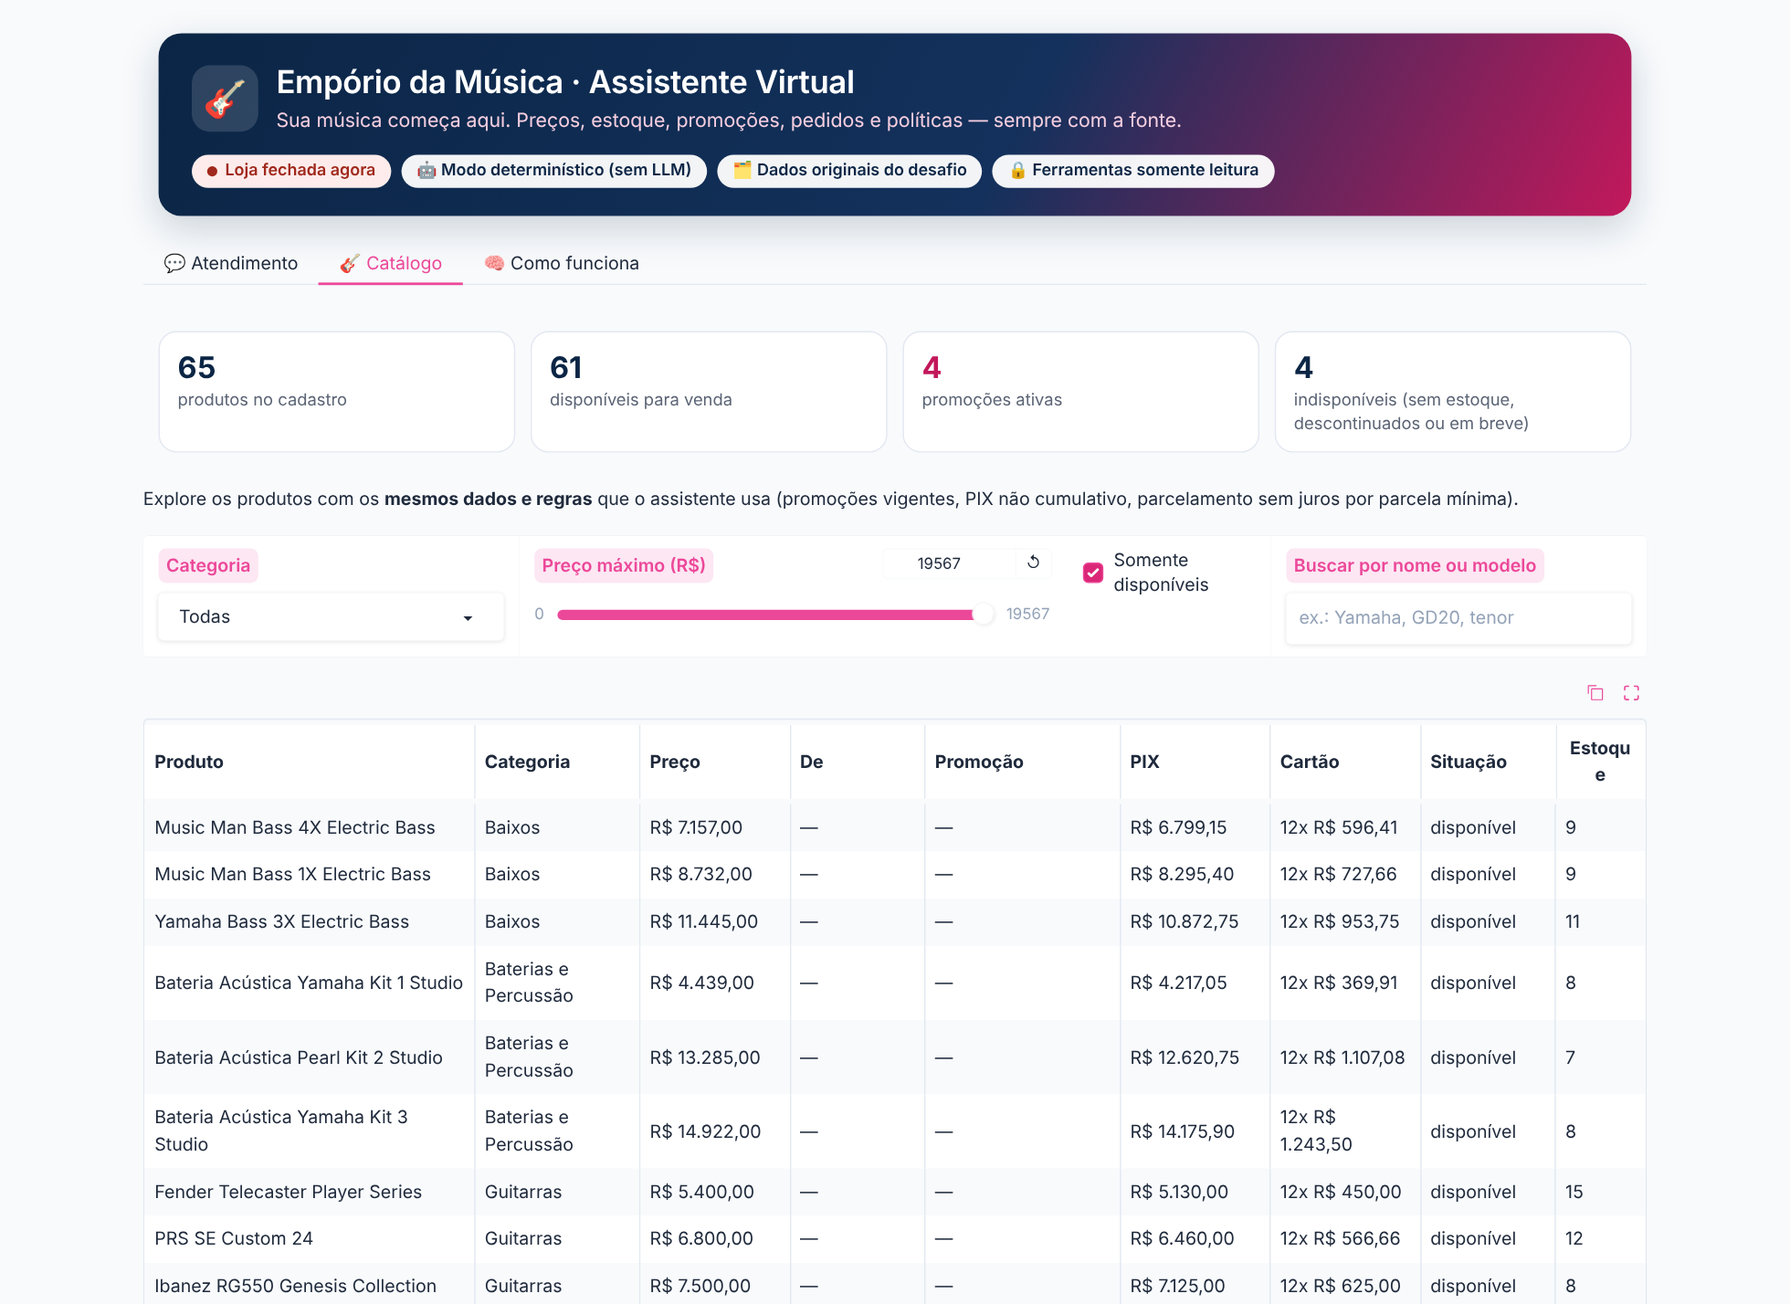
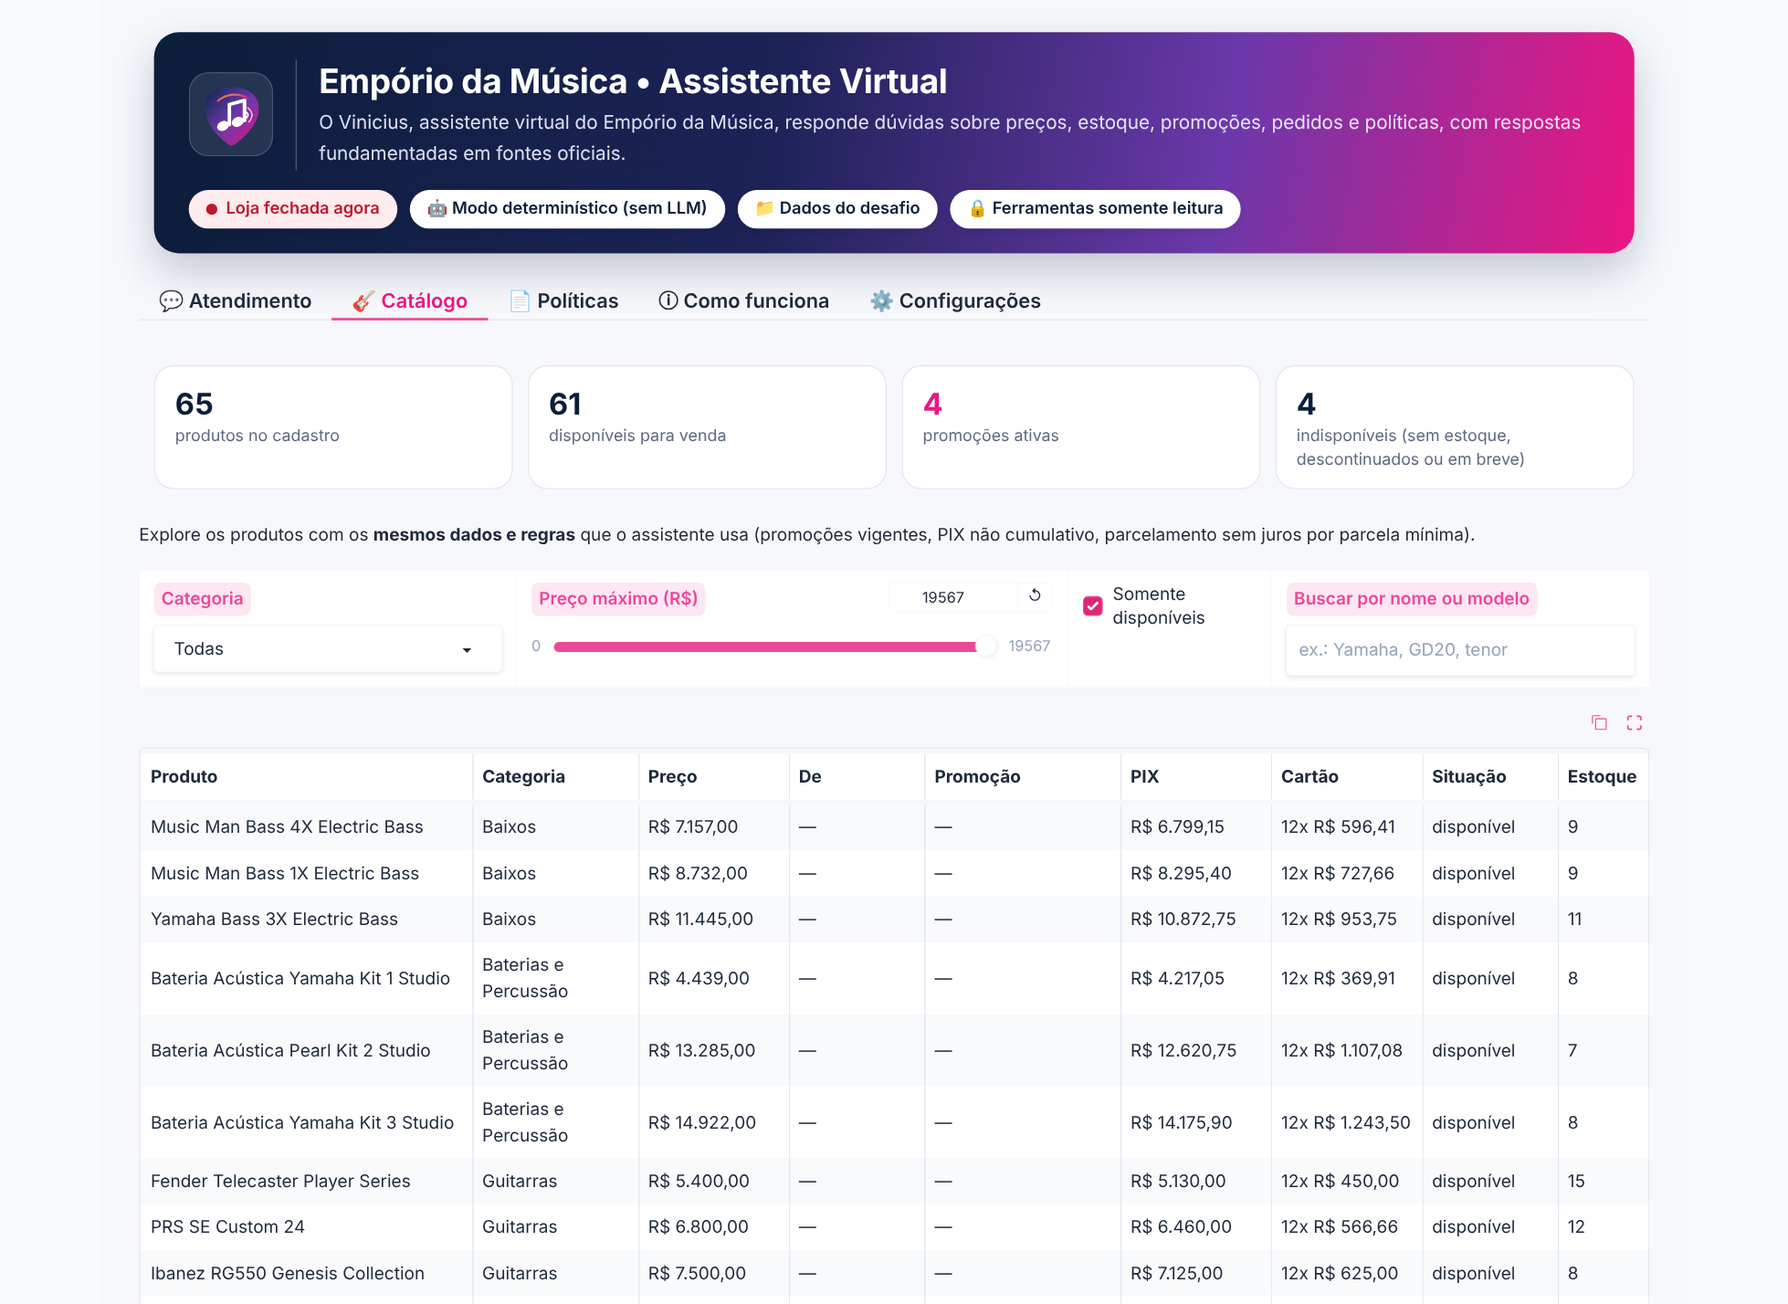
Document provider chain, settings tab and token control; refresh screenshots and demo GIF

diff --git a/README.md b/README.md
@@ -1,3 +1,5 @@
+<p align="center"><img src="assets/brand/emporio_logo_light_bg.png" alt="Empório da Música" width="420"></p>
+
 # Empório AI — Customer Service Agent
 
 [![tests](https://github.com/ViniciusKanh/emporio-da-musica-ai-agent/actions/workflows/tests.yml/badge.svg)](https://github.com/ViniciusKanh/emporio-da-musica-ai-agent/actions/workflows/tests.yml)
@@ -5,7 +7,8 @@
 A Python text agent that answers customers of **Empório da Música**, a fictional musical-instrument store in
 Campo Grande/MS. It looks up products, prices, stock, promotions and orders in the store's data, explains the
 store's policies (payment, returns, warranty, shipping, opening hours) with page references, and politely declines
-questions that are outside the store's scope.
+questions that are outside the store's scope. In the web interface the agent appears as **Vinicius**, the store's
+virtual assistant (it always presents itself as a virtual assistant, never as a person).
 
 Built for the Artefact Brasil technical challenge — *AI Engineer, Full-Stack for Generative AI Applications* —
 by **Vinicius de Souza Santos**.
@@ -21,7 +24,7 @@ python run.py          # Windows: double-click run.bat  ·  Linux/macOS: ./run.s
 
 Then open <http://127.0.0.1:7860>. No API key is needed to try it (see [§2](#2-how-to-run)).
 
-![Demo: recommendation, comparison, expired campaign, catalog and policy search](docs/assets/demo.gif)
+![Demo: chat with Vinicius (typing indicator), recommendation, comparison, expired campaign, settings and catalog](docs/assets/demo.gif)
 
 ---
 
@@ -114,8 +117,9 @@ automatically.
 
 ### Choosing the model (optional)
 
-The challenge allows "paid or free models, local or via API". Three modes are available; the interface always
-shows which one answered:
+The challenge allows "paid or free models, local or via API". Three providers are available and are tried **in a
+chain**: the first one that produces a grounded answer wins, and the deterministic engine is always the last layer.
+The interface always shows which one answered and how many tokens it spent:
 
 | Mode | How to enable | Notes |
 |---|---|---|
@@ -127,6 +131,23 @@ shows which one answered:
 cp .env.example .env     # Windows: copy .env.example .env
 # edit .env and set GEMINI_API_KEY=your_key   (or LOCAL_LLM_BASE_URL / LOCAL_LLM_MODEL)
 ```
+
+**Or configure it in the interface** — tab **⚙ Configurações** (no restart needed):
+
+* choose the primary provider: *Automático*, *Gemini*, *Modelo local* or *Determinístico*;
+* paste a Gemini API key, pick the model (or click *Listar modelos*) and click *Testar conexão*;
+* point to a local server (presets for Ollama, LM Studio and llama.cpp), click *Detectar modelos* to list the models
+  it serves, and test it;
+* tick **"if Gemini fails, use the local model"** — quota/rate-limit errors (HTTP 429, `RESOURCE_EXHAUSTED`), network
+  errors, an exhausted token budget or an answer rejected by the grounding check move the question to the local
+  model, then to the deterministic engine;
+* set a **token budget per session** for each provider and follow the **token usage** (requests, input, output,
+  total, failures) reported by the providers themselves.
+
+These settings apply only to the current browser session and are kept in memory: the key is never written to disk,
+logged or sent to the model. In a shared deployment each visitor's key affects only their own session.
+
+![Settings: provider, Gemini key, local model, fallback and token usage](docs/assets/ui_settings.png)
 
 ### Google Colab
 
@@ -156,8 +177,9 @@ In plain words, every message goes through five steps:
 1. **Safety check.** The message is checked for prompt injection ("ignore your instructions"), requests for other
    customers' data, and requests the agent is not allowed to fulfil (cancel an order, give a discount, refund).
    These are answered with a refusal or a referral to the human team and never reach the language model.
-2. **Choose the mode.** If a Gemini API key is configured, Gemini handles the conversation. Otherwise — or if
-   Gemini fails — the deterministic engine answers. The mode used is always reported.
+2. **Choose the provider.** The configured chain is tried in order — e.g. Gemini → local model → deterministic
+   engine. A provider is skipped when its token budget is exhausted and abandoned when it fails (quota, network,
+   invalid answer). The provider used, any fallback and the tokens spent are always reported.
 3. **Look up the facts with tools.** The model (or the deterministic engine) calls read-only Python tools:
    search products, get product details, list promotions, calculate payment options, estimate shipping, search
    the policy manual, get store info, get order status. Tools return data **and** the sources used.
@@ -167,7 +189,9 @@ In plain words, every message goes through five steps:
    results, and no customer e-mail or phone may appear. If the check fails, the deterministic answer is sent
    instead. The reply comes with its sources and, when needed, a referral to the human team.
 
-**Conversation memory.** Each session keeps a small in-memory state so that follow-ups work: *"Quanto custa o
+**Conversation memory.** Each session keeps a small in-memory state so that follow-ups work — also when the answer
+of the previous turn came from another provider, because the history is stored in a provider-neutral form (with
+e-mails already masked) and each provider rebuilds its own message format from it: *"Quanto custa o
 Takamine GD20?"* → *"e no pix?"*; *"Quais ukuleles?"* → *"e até 300?"*; *"Onde está meu pedido 8?"* →
 (customer sends the e-mail) → *"e quando chega?"*. Nothing is stored on disk.
 
@@ -225,6 +249,8 @@ it would give the model unrestricted access to `customers.csv` and make arithmet
 * Native function calling through the official `google-genai` SDK, good Brazilian Portuguese, low latency and
   cost, and a free tier — so anyone evaluating the project can run it.
 * The model can be changed with the `GEMINI_MODEL` variable.
+* Token usage is read from each response (`usage_metadata`) and shown per answer and per session; an optional
+  per-session budget (`GEMINI_TOKEN_BUDGET` or the settings tab) caps spending.
 * Temperature 0.2 (consistent, factual answers). Automatic function calling is turned off so that the project's
   own loop runs the tools: it validates the arguments, records each call and stops after at most 5 rounds.
 * **Validation status:** the hosted Gemini model was **not** called during development (no API key was available
@@ -240,6 +266,8 @@ with no API key and no data leaving the computer.
 * **No new dependency:** the client uses only the Python standard library (`llm_openai.py`).
 * **Same safety net:** the same read-only tools, e-mail masking and answer check are used. Small models call tools
   less reliably; when they fail, the deterministic engine answers.
+* **Fallback for Gemini:** when "use the local model if Gemini fails" is on (default), a quota error, a network
+  error or an ungrounded Gemini answer is retried on the local model before the deterministic engine.
 * **Why Gemini stays the default:** a 7B model on a laptop CPU is slow (tens of seconds per answer) and less
   reliable at multi-step tool use; the case does not require a local model, so it is offered as an option.
 * **Validation status:** the wire protocol is tested against a real local HTTP server in the test suite; no actual
@@ -261,7 +289,8 @@ with no API key and no data leaving the computer.
 
 The system prompt (`src/emporio_ai/llm.py`) defines:
 
-1. **Persona** — the tone from the manual (§7.1), in the customer's language.
+1. **Persona** — "Vinicius", the store's virtual assistant, with the tone from the manual (§7.1), in the customer's
+   language; it introduces itself by name and never claims to be human.
 2. **Grounding rules** — never state a price, stock level, promotion, delivery time, order status or policy
    without calling a tool in the same turn; show original price, promotional price and discount percentage
    together; never add the PIX discount on top of a promotion.
@@ -274,16 +303,20 @@ after the model are enforced in code (§9).
 
 ### Interface and conversation history
 
-* **Gradio** web interface with four tabs:
-    * **Atendimento** — the chat, one-click quick actions, a "store open/closed now" badge and an **evidence panel**
-      that shows, for every answer, the mode, the detected intents, the tools called, the sources and, on hand-offs,
-      the case note for the team (useful for an evaluator to audit each answer);
+* **Gradio** web interface in the store's visual identity (navy `#0B1E3A`, violet `#6C38AA`, magenta `#EC1681`,
+  logo and assistant avatar in `assets/brand/`), with five tabs:
+    * **Atendimento** — chat with **Vinicius** (avatar, "typing…" indicator and progressive reveal of the answer),
+      one-click quick actions, a "store open/closed now" badge and an **evidence panel** that shows, for every
+      answer, the provider, the detected intents, the tools called, the tokens spent, the sources, any fallback and,
+      on hand-offs, the case note for the team (useful for an evaluator to audit each answer);
     * **Catálogo** — a filterable product table (category, maximum price, availability, search) and the active
       promotions, computed with the same rules the agent uses;
     * **Políticas** — type a question and see the 3 manual sections the retriever returns, with citation and
       score (makes the RAG step visible);
     * **Como funciona** — the supported models, the architecture diagram, the data-quality findings and the contradictions found in the
-      manual, loaded live from the data.
+      manual, loaded live from the data;
+    * **Configurações** — provider choice, Gemini key and model, local model, fallback, token budgets and usage
+      (see §2).
 * **CLI** (`run_cli.py --trace`) and a **Colab notebook** for quick reproduction.
 * History is kept **in memory per session**: enough for follow-up questions, without persisting personal data.
 
@@ -420,12 +453,13 @@ every push (`.github/workflows/tests.yml`, badge at the top).
 | Deterministic agent on synthetic and original data | Validated (tests + generated examples) |
 | Gemini tool loop: SDK types, tool execution, e-mail masking, answer check, fallback | Validated with a scripted fake client |
 | Local / OpenAI-compatible provider: HTTP protocol, tool calls, e-mail masking, fallback | Validated against a real local HTTP test server |
+| Provider chain: Gemini quota error → local model → deterministic, token counting, budgets, per-session settings | Validated with scripted fakes (`tests/test_providers.py`); the settings tab was exercised in the browser against a stand-in OpenAI-compatible server. With the real `google-genai` SDK and an invalid key, the network error correctly triggered the fallback |
 | Answers of a real local model | **Not validated** — model downloads blocked in the development environment |
 | Answers of the real Gemini model | **Not validated** — no API key in the development environment; run `python run.py --eval` with a key to measure it |
 | Colab notebook | Executed end-to-end with `jupyter nbconvert` on Linux, not inside Colab itself |
 | Web interface | Launched and used locally — the screenshots below are real captures |
 
-![Chat with evidence panel](docs/assets/ui_chat.png)
+![Chat with Vinicius and the evidence panel](docs/assets/ui_chat.png)
 
 ![Catalog explorer](docs/assets/ui_catalog.png)
 
@@ -448,7 +482,9 @@ every push (`.github/workflows/tests.yml`, badge at the top).
   personal detail shown is the **first name of the verified customer**, used to greet them (manual §7.2), and it is
   never sent to an LLM.
 * **Credentials** are read from environment variables or a `.env` file, which is excluded from Git
-  (`.env.example` documents the variables).
+  (`.env.example` documents the variables). A key typed in the settings tab lives only in the memory of that
+  browser session (password field, never logged, never persisted, masked out of error messages); token budgets
+  limit the cost a session can generate.
 * **Restricted documents** — the policy manual and the original customer file — are not published.
 
 ---
@@ -487,6 +523,8 @@ The challenge asks to document reasonable assumptions where information is missi
 * Recommendations are rule-based (keywords in the descriptions + price position); they are explainable but do not
   learn from sales or reviews.
 * Sessions live in memory (lost on restart, single server), and the web UI has no rate limiting.
+* Token budgets are checked before each answer, so a budget can be exceeded by at most one answer. Endpoints that
+  do not report `usage` are counted as requests with zero tokens.
 
 **With more time**
 
@@ -509,6 +547,9 @@ The challenge asks to document reasonable assumptions where information is missi
 | `LOCAL_LLM_BASE_URL` | empty | OpenAI-compatible endpoint, e.g. `http://localhost:11434/v1` (Ollama). |
 | `LOCAL_LLM_MODEL` | `qwen2.5:7b-instruct` | Model name as known by the local server. |
 | `LOCAL_LLM_API_KEY` / `LOCAL_LLM_TIMEOUT` | empty / `120` | Optional key (online providers) and timeout in seconds. |
+| `EMPORIO_LOCAL_FALLBACK` | `true` | Use the local model when Gemini fails (quota, network, ungrounded answer). |
+| `GEMINI_TOKEN_BUDGET` / `LOCAL_LLM_TOKEN_BUDGET` | empty | Token budget per session for each provider (empty = unlimited). |
+| `EMPORIO_ASSISTANT_NAME` | `Vinicius` | Name of the virtual assistant (persona and UI). |
 | `EMPORIO_MAX_TOOL_ROUNDS` | `5` | Maximum tool-calling rounds per message. |
 | `EMPORIO_DATA_DIR` / `EMPORIO_POLICY_PATH` | auto | Alternative locations for the data and the policy document. |
 
@@ -530,6 +571,7 @@ app.py · run_cli.py             web chat (Gradio) and terminal chat
 src/emporio_ai/                 agent, tools, data, rules, retrieval, Gemini integration, safety checks
 tests/                          automated tests (pytest)
 data/sample/                    synthetic sample data (public)
+assets/brand/                   logo, symbol and assistant avatar (fictional store identity)
 examples/                       5 example conversations
 docs/                           architecture details, evaluation report, diagram and screenshots
 notebooks/                      Google Colab notebook

diff --git a/docs/ARCHITECTURE.md b/docs/ARCHITECTURE.md
@@ -20,7 +20,8 @@ Complements sections 2–5 of the [README](../README.md). Everything below descr
 | `llm.py` | `GeminiAgent.respond`, `grounding_issues`, `SYSTEM_PROMPT`, `TOOL_DECLARATIONS` | Manual function-calling loop with the official SDK. |
 | `store_hours.py` | `open_status`, `describe` | "Open now?" from the manual's hours in Campo Grande time (UTC-4). |
 | `llm_openai.py` | `OpenAICompatibleAgent.respond` | Same tool loop over the OpenAI-compatible API (Ollama, LM Studio, llama.cpp, online providers) using only `urllib`. |
-| `agent.py` | `EmporioAgent.ask` → `AgentResponse` | Sessions, mode selection, fallbacks, warnings. |
+| `agent.py` | `EmporioAgent.ask` → `AgentResponse`, `ProviderConfig`, `build_providers`, `configure_session` | Sessions, provider chain, per-session settings, fallbacks, token accounting, warnings, provider-neutral transcript. |
+| `usage.py` | `CallUsage`, `UsageMeter`, `TokenBudgetExceeded`, `is_quota_error` | Token counts per answer and per session, budgets, recognition of quota / rate-limit errors. |
 
 ## Product matching
 
@@ -68,8 +69,28 @@ repeat up to max_tool_rounds:
     contents += [model turn]                         # keeps thought signatures intact
     contents += [function responses from ToolBox]   # tools resolve <EMAIL_n> locally
 grounding_issues(answer, tool results, policy constants, store contacts) == []  → mode "gemini"
-otherwise / on any exception                                                       → offline answer + warning
+otherwise / on any exception                                                       → next provider + warning
 ```
+
+## Provider chain, fallback and tokens
+
+```text
+chain = session override (UI "Configurações") or defaults from .env, e.g. [Gemini, Local]
+for provider in chain:
+    skip if UsageMeter.remaining(provider) == 0          # per-session token budget
+    try provider.respond(message, state, tools, usage)   # usage filled after every API request
+    except quota (HTTP 429 / RESOURCE_EXHAUSTED) or any error → record, warn, next provider
+    if grounded → answer (fallback_used = provider is not the first)
+    else        → record, warn, next provider
+deterministic engine → answer
+transcript += (user message with e-mails tokenised, final answer)   # shared by all providers
+```
+
+* Usage numbers come from the provider responses (Gemini `usage_metadata.prompt_token_count /
+  candidates_token_count / total_token_count`; OpenAI-compatible `usage.prompt_tokens / completion_tokens /
+  total_tokens`).
+* A UI key is stored in a frozen `ProviderConfig` attached to that session only (`repr` hides it); "Nova conversa"
+  clears the conversation but keeps the session's settings and counters.
 
 ## Data-quality findings on the original snapshot
 
@@ -97,6 +118,7 @@ Produced by `DataStore` at start-up (see the notebook output or `agent.store.rep
 | Decision | Alternatives considered | Reason |
 |---|---|---|
 | Provider-agnostic tool layer; Gemini default, local model optional | Local model only; Gemini only | The case allows both; Gemini is faster and more reliable at tool use, a local model gives cost-free, offline operation. Grounding checks are shared. |
+| Ordered provider chain with per-session settings | Single global provider; restart to change | Lets the user switch models and keep answering when Gemini runs out of quota, without a key typed by one visitor affecting another. |
 | Native function calling, manual loop | LangChain agent; automatic function calling | Full control of validation, tracing, bounds and PII; fewer dependencies. |
 | Deterministic tools for numbers | LLM-generated pandas/SQL | Exact, testable arithmetic; no access path to customer data. |
 | BM25 over section chunks | Embeddings + vector DB | 28 chunks; lexical ranking is precise and explainable; no extra service. |

diff --git a/docs/EVALUATION.md b/docs/EVALUATION.md
@@ -1,6 +1,6 @@
 # Evaluation report
 
-Generated by `scripts/run_evaluation.py` on 2026-10-31 22:36 -03. All numbers below are parsed from pytest's JUnit XML output; nothing is typed by hand.
+Generated by `scripts/run_evaluation.py` on 2026-11-01 18:31 -03. All numbers below are parsed from pytest's JUnit XML output; nothing is typed by hand.
 
 ## Environment
 
@@ -12,7 +12,7 @@ Generated by `scripts/run_evaluation.py` on 2026-10-31 22:36 -03. All numbers be
 
 ### Public clone (synthetic fixtures only)
 
-**108 passed, 0 failed, 20 skipped** (pytest exit code 0; `108 passed, 20 skipped in 5.08s`)
+**121 passed, 0 failed, 20 skipped** (pytest exit code 0; `121 passed, 20 skipped in 5.11s`)
 
 | Test module | Passed | Failed | Skipped |
 |---|---:|---:|---:|
@@ -24,12 +24,13 @@ Generated by `scripts/run_evaluation.py` on 2026-10-31 22:36 -03. All numbers be
 | `test_original_dataset` | 0 | 0 | 8 |
 | `test_policy_features` | 6 | 0 | 2 |
 | `test_policy_retrieval` | 9 | 0 | 6 |
+| `test_providers` | 13 | 0 | 0 |
 | `test_regressions` | 26 | 0 | 1 |
 | `test_security` | 15 | 0 | 0 |
 
 ### Full (synthetic fixtures + original challenge files in data/)
 
-**128 passed, 0 failed, 0 skipped** (pytest exit code 0; `128 passed in 5.36s`)
+**141 passed, 0 failed, 0 skipped** (pytest exit code 0; `141 passed in 6.15s`)
 
 | Test module | Passed | Failed | Skipped |
 |---|---:|---:|---:|
@@ -41,6 +42,7 @@ Generated by `scripts/run_evaluation.py` on 2026-10-31 22:36 -03. All numbers be
 | `test_original_dataset` | 8 | 0 | 0 |
 | `test_policy_features` | 8 | 0 | 0 |
 | `test_policy_retrieval` | 15 | 0 | 0 |
+| `test_providers` | 13 | 0 | 0 |
 | `test_regressions` | 27 | 0 | 0 |
 | `test_security` | 15 | 0 | 0 |
 
